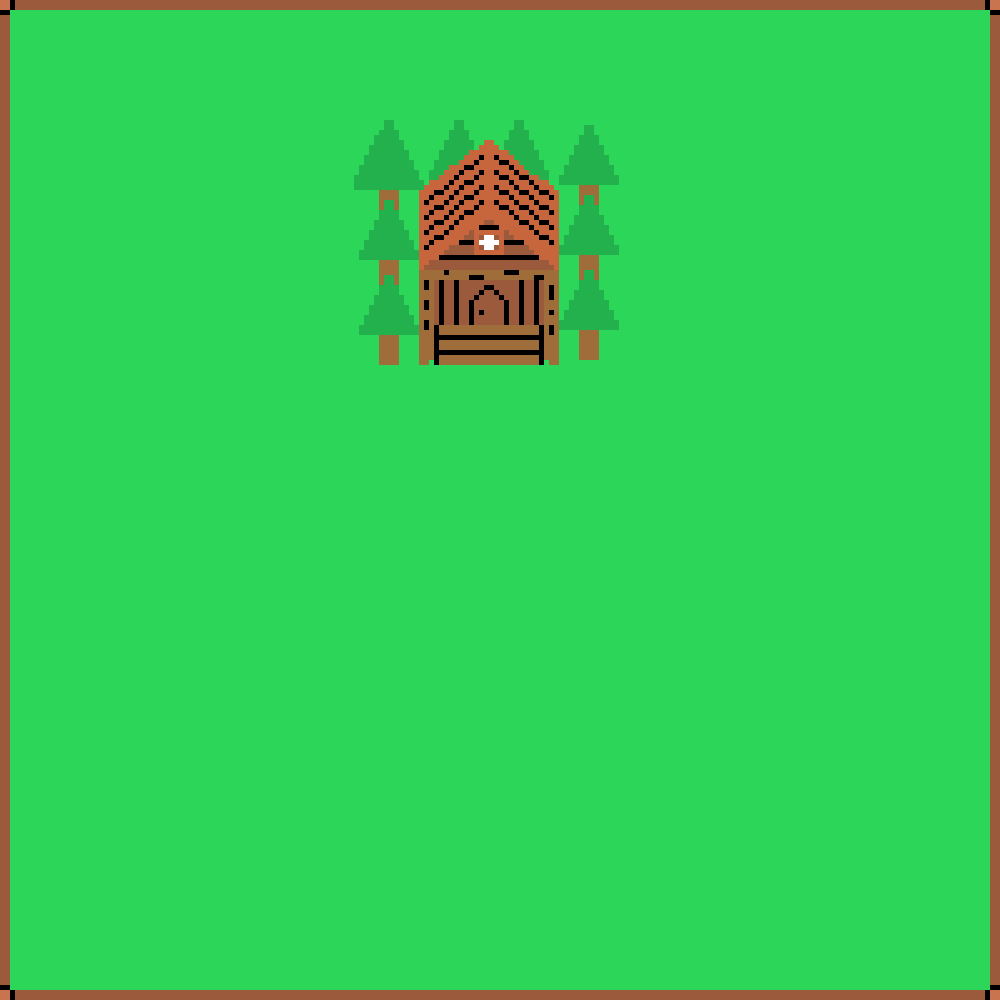
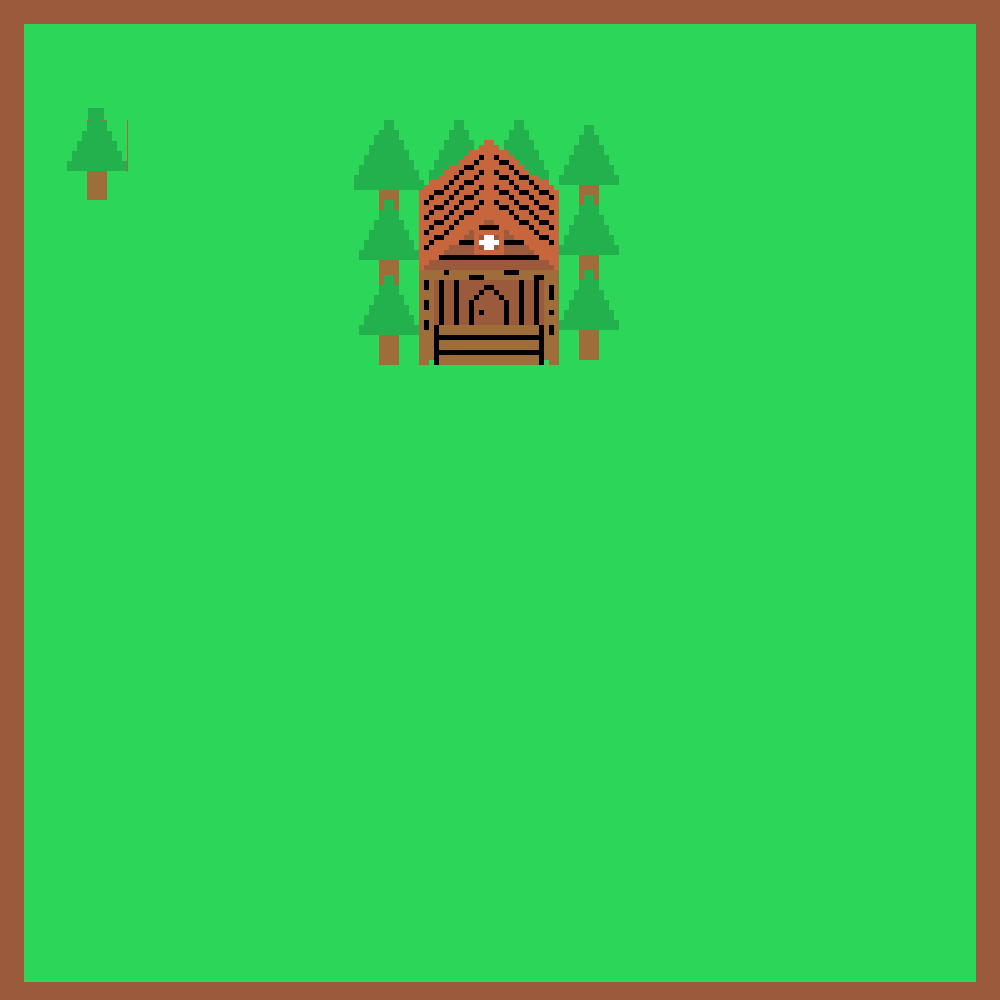
generación mundo abierto responsive y personaje que se mueve

Changed region(s): [[0.0, 0.0, 1.0, 1.0], [0.062, 0.093, 0.124, 0.217]]

diff --git a/src/app/componentes/gameboy/mundo-abierto/mundo-abierto.component.ts b/src/app/componentes/gameboy/mundo-abierto/mundo-abierto.component.ts
@@ -1,0 +1,157 @@
+import { AfterViewInit, Component, ElementRef, ViewChild } from '@angular/core';
+import { Subject, takeUntil } from 'rxjs';
+import { ComunicationServiceService } from 'src/app/Services/Gameboy/comunication-service.service';
+
+class Sprite {
+  position = { x: 0, y: 0 };
+  image;
+  constructor( position: any, velocity: any, image: any) {
+    this.position = position;
+    this.image = image;
+  }
+
+  draw(context: CanvasRenderingContext2D) {
+    context.drawImage(this.image, this.position.x, this.position.y);
+  }
+}
+
+@Component({
+  selector: 'app-mundo-abierto',
+  templateUrl: './mundo-abierto.component.html',
+  styleUrls: ['./mundo-abierto.component.css']
+})
+export class MundoAbiertoComponent implements AfterViewInit{
+  private destroyed$ = new Subject<void>();
+  private canvas: any;
+  context: any;
+  private image: any;
+  private player: any;
+  private lastKey = "";
+  private keys = {
+    ArrowUp: {
+      pressed: false
+    },
+    ArrowLeft: {
+      pressed: false
+    },
+    ArrowDown: {
+      pressed: false
+    },
+    ArrowRight: {
+      pressed: false
+    }
+  };
+  private background!: Sprite;
+
+  constructor(private comunicationService: ComunicationServiceService){}
+
+  ngOnDestroy(): void {
+    document.removeEventListener('keydown', this.keydownListener);
+    document.removeEventListener('keyup', this.keyupListener);
+    this.destroyed$.next();
+    this.destroyed$.complete();
+  }
+
+  ngAfterViewInit(): void {
+    this.canvas = document.querySelector('canvas');
+    this.context = this.canvas.getContext('2d');
+    
+    this.context.fillRect(0, 0, this.canvas.width, this.canvas.height);
+
+    this.image = new Image();
+    this.image.src = '../../../../assets/images/pruebaMapa.png';
+    this.player = new Image();
+    this.player.src = '../../../../assets/images/character.png';
+
+    document.addEventListener('keydown', this.keydownListener);
+    document.addEventListener('keyup', this.keyupListener);
+    this.comunicationService.accion.pipe(
+      takeUntil(this.destroyed$)
+    ).subscribe((event: string) => {
+      this.accionTecla(event);
+    });
+    const position = {
+      x: -20,
+      y: -70
+    };
+    this.background = new Sprite (position,0,this.image);
+    this.animate()
+  }
+
+  private keydownListener = (event: KeyboardEvent) => {
+    this.accionTecla(event.key);
+  };
+  private keyupListener = (event: KeyboardEvent) => {
+    this.keyUp(event.key);
+  }
+
+  accionTecla(event: string) {
+    setTimeout(() => {
+      if(this.comunicationService.encendido.value){
+        switch (event){
+        case 'ArrowUp':
+          this.keys.ArrowUp.pressed = true;
+          this.lastKey = 'ArrowUp';
+          break;
+        case 'ArrowLeft':
+          this.keys.ArrowLeft.pressed = true;
+          this.lastKey = 'ArrowLeft';
+          break;
+        case 'ArrowDown':
+          this.keys.ArrowDown.pressed = true;
+          this.lastKey = 'ArrowDown';
+          break;
+        case 'ArrowRight':
+          this.keys.ArrowRight.pressed = true;
+          this.lastKey = 'ArrowRight';
+          break;
+        }
+      } else{
+        this.ngOnDestroy();
+      }
+    },50);
+  }
+
+  keyUp(event: string){
+    setTimeout(() => {
+      if(this.comunicationService.encendido.value){
+        switch (event){
+        case 'ArrowUp':
+          this.keys.ArrowUp.pressed = false;
+          break;
+        case 'ArrowLeft':
+          this.keys.ArrowLeft.pressed = false;
+          break;
+        case 'ArrowDown':
+          this.keys.ArrowDown.pressed = false;
+          break;
+        case 'ArrowRight':
+          this.keys.ArrowRight.pressed = false;
+          break;
+        }
+      } else{
+        this.ngOnDestroy();
+      }
+    },50);
+  }
+
+  animate(): any{
+    window.requestAnimationFrame(() => this.animate());
+    this.background.draw(this.context);
+    this.context.drawImage(this.player,
+      0,
+      0,
+      this.player.width,
+      this.player.height,
+      this.canvas.width / 2 - this.player.width / 2,
+      this.canvas.height / 2 - this.player.height / 2,
+      this.player.width,
+      this.player.height
+    );
+  
+    if (this.keys.ArrowUp.pressed && this.lastKey === 'ArrowUp') this.background.position.y += 1;
+    if (this.keys.ArrowDown.pressed && this.lastKey === 'ArrowDown') this.background.position.y -= 1;
+    if (this.keys.ArrowLeft.pressed && this.lastKey === 'ArrowLeft') this.background.position.x += 1;
+    if (this.keys.ArrowRight.pressed && this.lastKey === 'ArrowRight') this.background.position.x -= 1;
+  }
+}

diff --git a/src/app/componentes/gameboy/menu-principal/menu-principal.component.ts b/src/app/componentes/gameboy/menu-principal/menu-principal.component.ts
@@ -16,12 +16,13 @@ export class MenuPrincipalComponent implements OnInit, OnDestroy{
   pantallaCompleta: boolean = false;
   infoUso: boolean = false;
   usuario: boolean = false;
-  MAX_OPCIONES: number = 5;
+  MAX_OPCIONES: number = 6;
   opcion: number = 1;
   dentroSeccion: boolean = false;
   secciones: any;
   nombreUsuario: any;
   volver: boolean = true;
+  mundoAbierto: boolean = false;
 
   constructor(private comunicationService: ComunicationServiceService) {}
   ngOnDestroy(): void {
@@ -43,6 +44,7 @@ export class MenuPrincipalComponent implements OnInit, OnDestroy{
         this.usuario = false;
         this.dentroSeccion = false;
         this.encendido = false;
+        this.mundoAbierto = false;
       }
     })
     this.comunicationService.volverMenu.pipe(
@@ -92,6 +94,7 @@ export class MenuPrincipalComponent implements OnInit, OnDestroy{
       this.combateCPU = false;
       this.infoUso = false;
       this.usuario = false;
+      this.mundoAbierto = false;
     }else{
       setTimeout(() => {
         if(this.comunicationService.encendido.value){
@@ -119,9 +122,9 @@ export class MenuPrincipalComponent implements OnInit, OnDestroy{
         this.deshabilitarMenu();
       if(this.opcion == 1){
         this.pokedex = true;
-      }else if(this.opcion == 2){
+      } else if(this.opcion == 2){
         this.combateCPU = true
-      }else if(this.opcion == 3){
+      } else if(this.opcion == 3){
         if(this.pantallaCompleta){
           this.pantallaCompleta = false;
           this.comunicationService.pantallaCompleta.next(false);
@@ -129,10 +132,12 @@ export class MenuPrincipalComponent implements OnInit, OnDestroy{
           this.pantallaCompleta = true;
           this.comunicationService.pantallaCompleta.next(true);
         }
-      }else if(this.opcion == 4){
+      } else if(this.opcion == 4){
         this.infoUso = true;
-      }else if(this.opcion == 5){
+      } else if(this.opcion == 5){
         this.usuario = true;
+      } else if(this.opcion == 6){
+        this.mundoAbierto = true;
       }
     }
   }
@@ -141,6 +146,7 @@ export class MenuPrincipalComponent implements OnInit, OnDestroy{
     this.combateCPU = false;
     this.infoUso = false;
     this.usuario = false;
+    this.mundoAbierto = false;
     this.dentroSeccion = false;
     this.secciones.style.visibility = 'visible';
     this.restablecerOpciones();
@@ -164,7 +170,7 @@ export class MenuPrincipalComponent implements OnInit, OnDestroy{
       }
     }
   }
-  elegirOpcion() {
+  elegirOpcion() {  
     // Buscamos y quitamos la antigua opcion seleccionada como seleccionado
     const antiguaOpcion = document.querySelector('.seleccionado') as HTMLElement;
     antiguaOpcion.classList.remove('seleccionado');

diff --git a/src/app/app.module.ts b/src/app/app.module.ts
@@ -23,6 +23,7 @@ import { CombateCPUComponent } from './componentes/gameboy/combate-cpu/combate-c
 import { AnimacionEncenderComponent } from './componentes/gameboy/animaciones/animacion-encender/animacion-encender.component';
 import { CombatePokemonDirective } from './truncate/combate-pokemon.directive';
 import { CombateSpinnerComponent } from './componentes/spinner/combate-spinner/combate-spinner.component';
+import { MundoAbiertoComponent } from './componentes/gameboy/mundo-abierto/mundo-abierto.component';
 
 @NgModule({
   declarations: [
@@ -43,6 +44,7 @@ import { CombateSpinnerComponent } from './componentes/spinner/combate-spinner/c
     AnimacionEncenderComponent,
     CombatePokemonDirective,
     CombateSpinnerComponent,
+    MundoAbiertoComponent,
   ],
   imports: [
     FormsModule,

diff --git a/src/app/componentes/gameboy/menu-principal/menu-principal.component.html b/src/app/componentes/gameboy/menu-principal/menu-principal.component.html
@@ -14,6 +14,9 @@
     <div class="no-seleccionado" id="seccion5">
         <label><strong>5.</strong> Usuario</label>
     </div>
+    <div class="no-seleccionado" id="seccion6">
+        <label><strong>6.</strong> Mundo Pokemon</label>
+    </div>
 </div>
 <div *ngIf="!dentroSeccion" id="nombreUsuario" class="w-100 d-flex flex-column justify-content-end align-items-end">
         <label *ngIf="nombreUsuario"><strong>Usuario: {{nombreUsuario}}</strong></label>
@@ -23,3 +26,4 @@
 <app-combate-cpu *ngIf="combateCPU"></app-combate-cpu>
 <app-info-uso id="infoUso" *ngIf="infoUso"></app-info-uso>
 <app-usuario id="usuario" *ngIf="usuario"></app-usuario>
+<app-mundo-abierto *ngIf="mundoAbierto"></app-mundo-abierto>

diff --git a/src/app/componentes/gameboy/mundo-abierto/mundo-abierto.component.spec.ts b/src/app/componentes/gameboy/mundo-abierto/mundo-abierto.component.spec.ts
@@ -1,0 +1,21 @@
+import { ComponentFixture, TestBed } from '@angular/core/testing';
+
+import { MundoAbiertoComponent } from './mundo-abierto.component';
+
+describe('MundoAbiertoComponent', () => {
+  let component: MundoAbiertoComponent;
+  let fixture: ComponentFixture<MundoAbiertoComponent>;
+
+  beforeEach(() => {
+    TestBed.configureTestingModule({
+      declarations: [MundoAbiertoComponent]
+    });
+    fixture = TestBed.createComponent(MundoAbiertoComponent);
+    component = fixture.componentInstance;
+    fixture.detectChanges();
+  });
+
+  it('should create', () => {
+    expect(component).toBeTruthy();
+  });
+});

diff --git a/src/app/componentes/gameboy/mundo-abierto/mundo-abierto.component.css b/src/app/componentes/gameboy/mundo-abierto/mundo-abierto.component.css
@@ -1,0 +1,22 @@
+*{
+    font-family: 'pokemonPixel2';
+}
+body {
+    margin: 0;
+    overflow: hidden;
+}
+
+#gameContainer {
+    position: absolute;
+    width: 100%;
+    height: 100%;
+    bottom: 0%;
+    display: flex;
+    flex-direction: row;
+    flex-wrap: wrap;
+    justify-content: space-around;
+    align-items: center;
+    color: black;
+    font-weight: 500;
+    border-radius: 0px 0px 10px 10px;
+}

diff --git a/src/app/componentes/gameboy/mundo-abierto/mundo-abierto.component.html b/src/app/componentes/gameboy/mundo-abierto/mundo-abierto.component.html
@@ -1,0 +1,1 @@
+<canvas id="gameContainer" width="400" height="400"></canvas>
